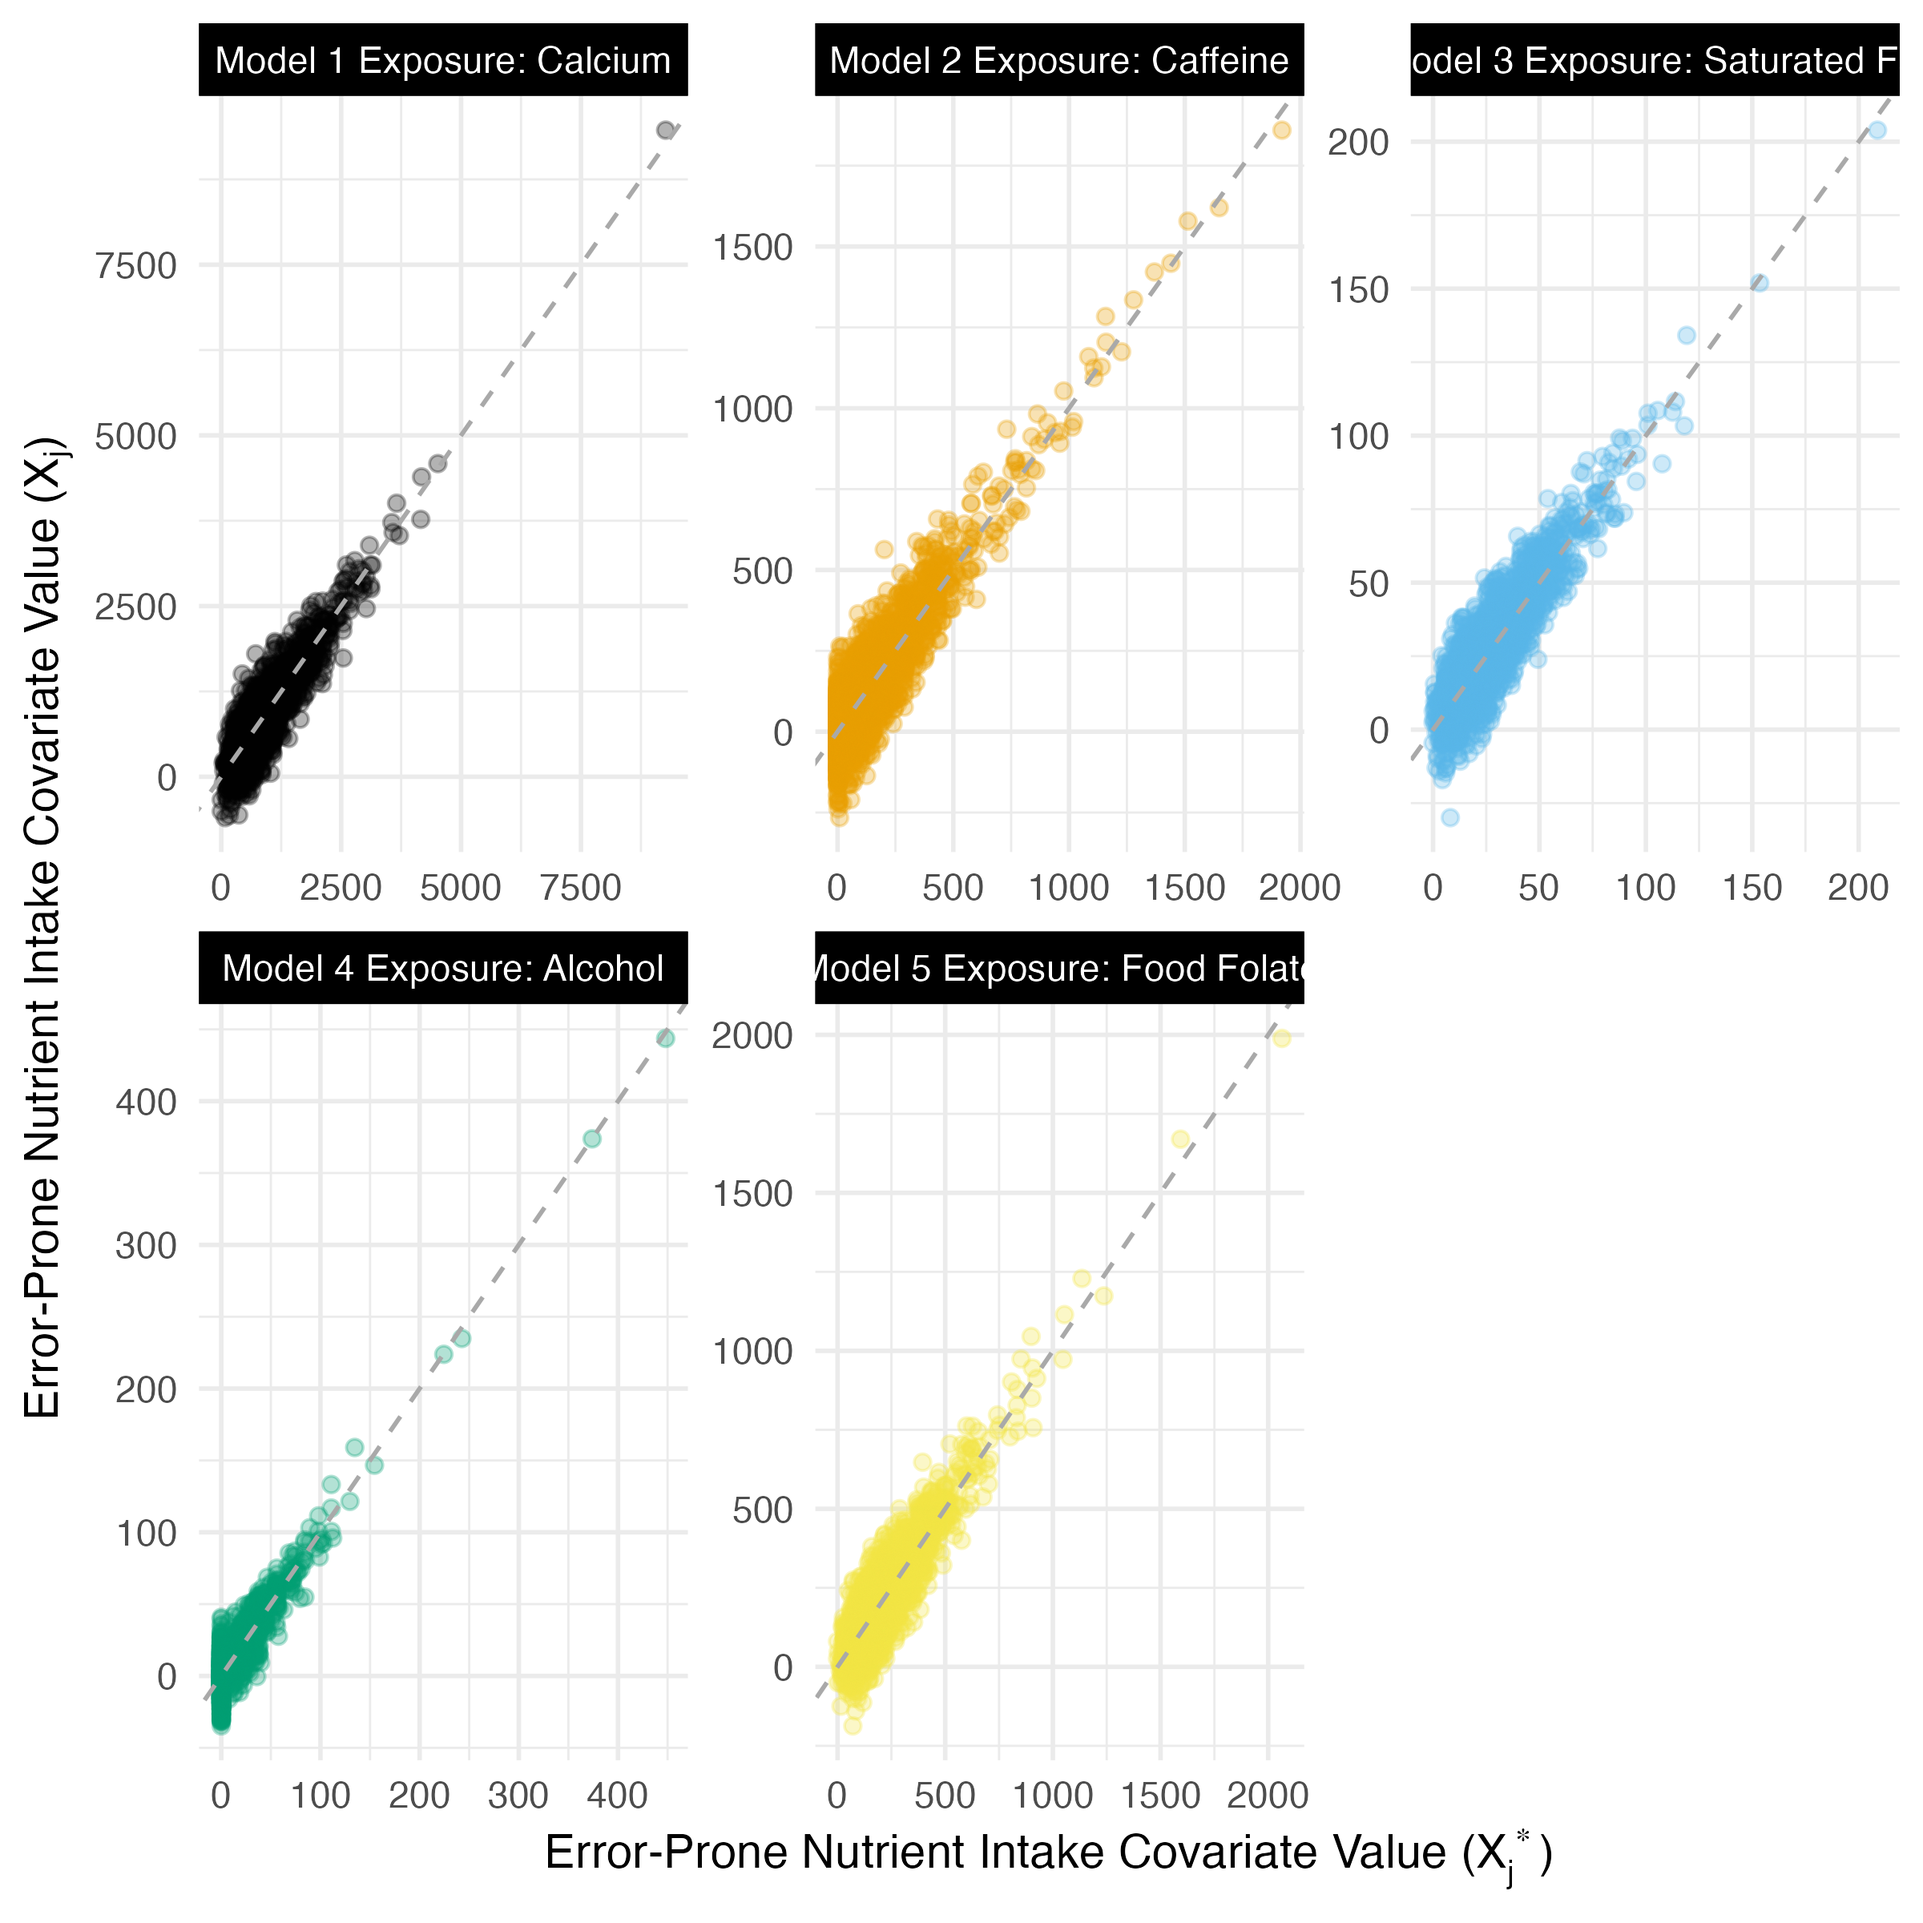
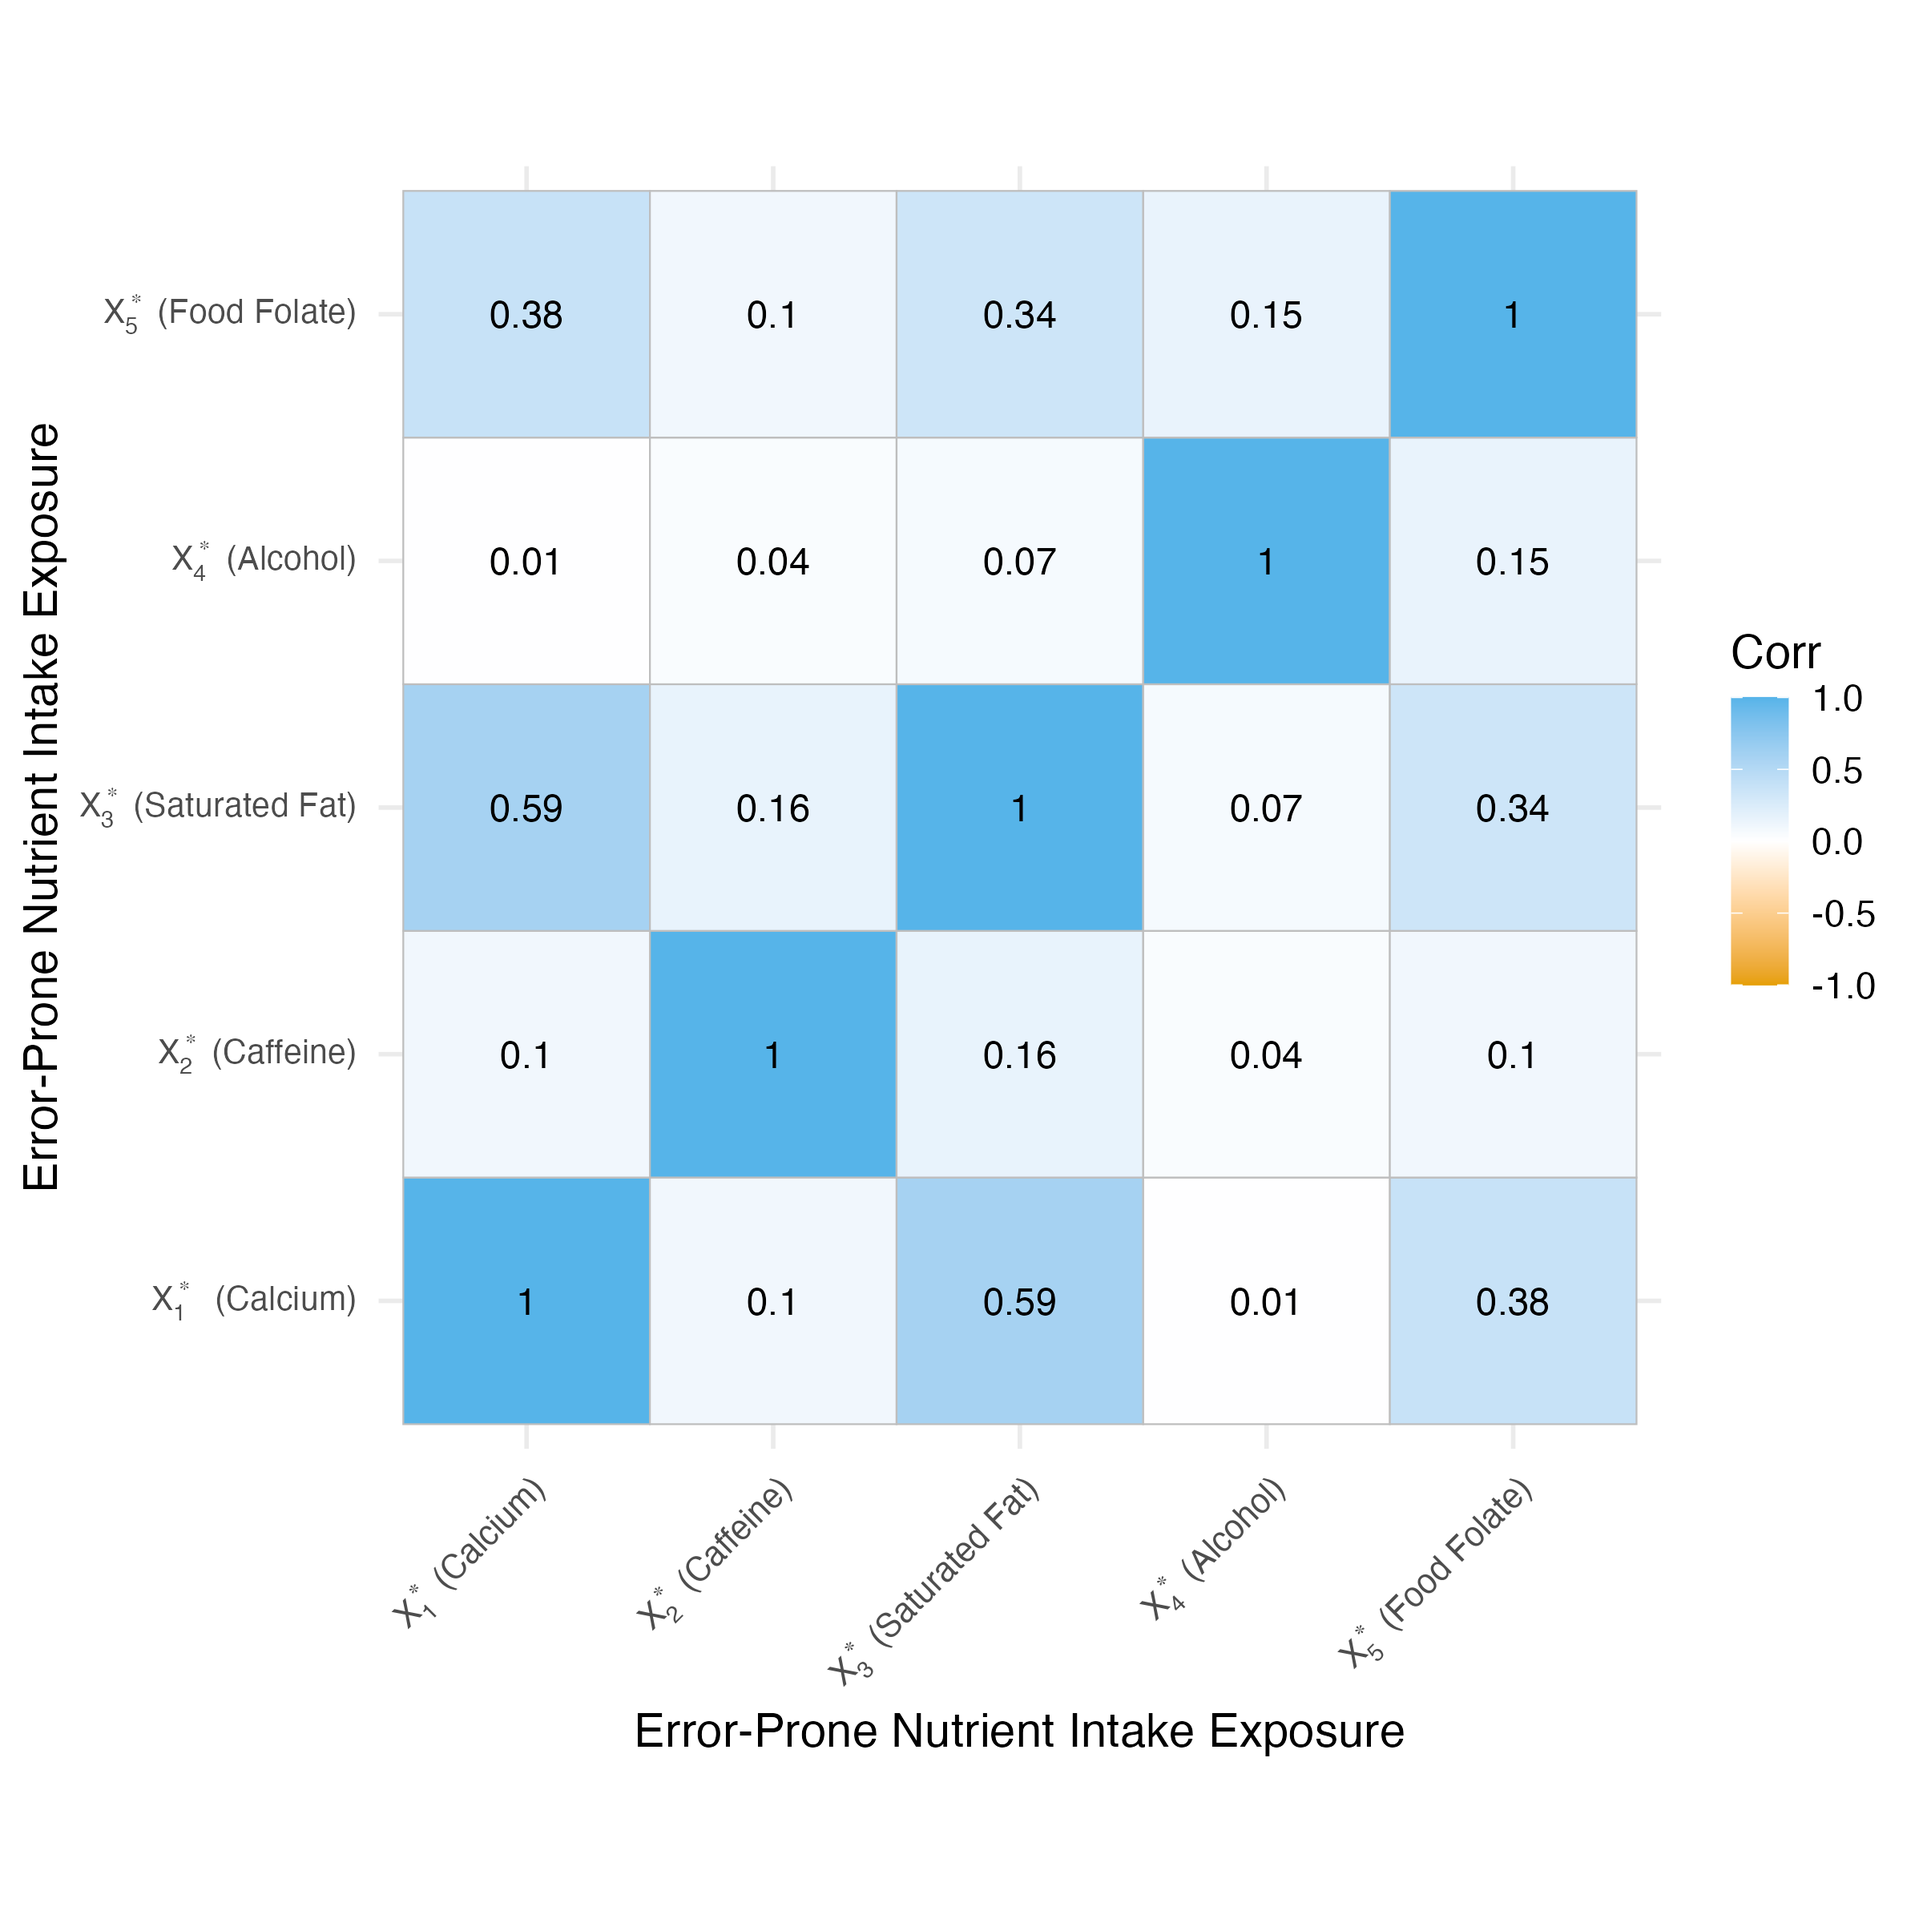
Rerun and remake figs in README

diff --git a/README.md b/README.md
@@ -49,8 +49,7 @@ nhanes_data = nhanes_data |>
                                       "< 9th Grade", 
                                       "9-11th Grade", 
                                       "High School Grad/GED or Equivalent",
-                                      "Some College or AA Degree")), 
-         RIDAGEYR = RIDAGEYR / 10) |> ## rescale age to 10-year increments
+                                      "Some College or AA Degree"))) |> 
   dplyr::select(SEQN, Y1:XSTAR5, RIAGENDR, RIDAGEYR, RIDRETH1, DMDEDUC2)  
 
 ## Define vector of additional (error-free) exposures
@@ -118,61 +117,35 @@ can be found in this repository as
 
 ## Descriptive Statistics
 
+### Error-Prone Versus Error-Free Exposures
+
 <img src="README_files/figure-gfm/unnamed-chunk-3-1.png" alt=""  />
 
-``` r
-## Estimate covariance of X* variables
-cov(nhanes_data[, paste0("XSTAR", 1:5)]) 
-```
+### Correlation Matrix Between Error-Prone Exposures
 
-    ##              XSTAR1     XSTAR2     XSTAR3    XSTAR4     XSTAR5
-    ## XSTAR1 311220.62986 10222.4015 5508.79197  86.62312 30146.7031
-    ## XSTAR2  10222.40152 30523.5473  479.53636 137.98007  2356.5188
-    ## XSTAR3   5508.79197   479.5364  281.98449  25.36496   805.3598
-    ## XSTAR4     86.62312   137.9801   25.36496 476.47932   451.9767
-    ## XSTAR5  30146.70310  2356.5188  805.35976 451.97665 19967.5159
+<img src="README_files/figure-gfm/corrplot X*-1.png" alt=""  />
+
+### Principal Components Analysis of Error-Prone Exposures
 
 ``` r
-cor_matrix = cor(nhanes_data[, paste0("XSTAR", 1:5)])
-
-library(ggcorrplot)
-plot_corr = ggcorrplot(cor_matrix,
-           lab = TRUE,          # adds correlation coefficients
-           colors = c("#E69F00", "white", "#56B4E9")) + # orange - white - blue
-  scale_x_discrete(labels = c(TeX("$X_1^*$ (Calcium)"),
-                              TeX("$X_2^*$ (Caffeine)"),
-                              TeX("$X_3^*$ (Saturated Fat)"),
-                              TeX("$X_4^*$ (Alcohol)"),
-                              TeX("$X_5^*$ (Food Folate)"))) +
-  scale_y_discrete(labels = c(TeX("$X_1^*$  (Calcium)"),
-                              TeX("$X_2^*$ (Caffeine)"),
-                              TeX("$X_3^*$ (Saturated Fat)"),
-                              TeX("$X_4^*$ (Alcohol)"),
-                              TeX("$X_5^*$ (Food Folate)"))) +
-  theme_minimal(base_size = 14) + 
-  xlab("Error-Prone Nutrient Intake Exposure Value") + 
-  ylab("Error-Prone Nutrient Intake Exposure Value") + 
-  theme(axis.text.x = element_text(angle = 45, hjust = 1, size = 10),
-      axis.text.y = element_text(size = 10))
+## Inspect numeric summaries X* variables (different scales/variability)
+summary(nhanes_data[, paste0("XSTAR", 1:5)]) 
 ```
 
-    ## Warning: `aes_string()` was deprecated in ggplot2 3.0.0.
-    ## ℹ Please use tidy evaluation idioms with `aes()`.
-    ## ℹ See also `vignette("ggplot2-in-packages")` for more information.
-    ## ℹ The deprecated feature was likely used in the ggcorrplot package.
-    ##   Please report the issue at <https://github.com/kassambara/ggcorrplot/issues>.
-    ## This warning is displayed once per session.
-    ## Call `lifecycle::last_lifecycle_warnings()` to see where this warning was
-    ## generated.
-
-``` r
-## Save 
-ggsave(filename = "~/Documents/ETS_PCA/NHANES-Analysis/Xstar-Correlation.png", 
-       plot = plot_corr, 
-       device = "png", 
-       width = 8, 
-       height = 8)
-```
+    ##      XSTAR1           XSTAR2           XSTAR3           XSTAR4       
+    ##  Min.   :   0.0   Min.   :   0.0   Min.   :  0.00   Min.   :  0.000  
+    ##  1st Qu.: 518.0   1st Qu.:  33.0   1st Qu.: 15.48   1st Qu.:  0.000  
+    ##  Median : 769.0   Median : 120.0   Median : 23.58   Median :  0.000  
+    ##  Mean   : 885.7   Mean   : 156.2   Mean   : 26.62   Mean   :  7.717  
+    ##  3rd Qu.:1128.0   3rd Qu.: 210.0   3rd Qu.: 33.93   3rd Qu.:  0.000  
+    ##  Max.   :9266.0   Max.   :1920.0   Max.   :208.84   Max.   :448.100  
+    ##      XSTAR5      
+    ##  Min.   :   0.0  
+    ##  1st Qu.: 124.0  
+    ##  Median : 184.0  
+    ##  Mean   : 213.9  
+    ##  3rd Qu.: 267.0  
+    ##  Max.   :2064.0
 
 ``` r
 ## Fit PCA on X* variables (using correlation matrix)
@@ -188,76 +161,24 @@ summary(pc)
     ## Cumulative Proportion  0.389586 0.5931921 0.7842762 0.9197112 1.00000000
 
 ``` r
-### Print PCA loadings 
-pc$loadings
-```
-
-    ## 
-    ## Loadings:
-    ##        Comp.1 Comp.2 Comp.3 Comp.4 Comp.5
-    ## XSTAR1  0.589  0.240  0.148  0.234  0.721
-    ## XSTAR2  0.221        -0.966              
-    ## XSTAR3  0.589  0.149         0.418 -0.674
-    ## XSTAR4  0.132 -0.939         0.288       
-    ## XSTAR5  0.491 -0.177  0.184 -0.825 -0.112
-    ## 
-    ##                Comp.1 Comp.2 Comp.3 Comp.4 Comp.5
-    ## SS loadings       1.0    1.0    1.0    1.0    1.0
-    ## Proportion Var    0.2    0.2    0.2    0.2    0.2
-    ## Cumulative Var    0.2    0.4    0.6    0.8    1.0
-
-``` r
 ### Extract the first principal component
 nhanes_data$pc1 = pc$scores[, 1] 
-### Plot score vs. X* and Y
-plot_loadings = nhanes_data |> 
-  dplyr::select(pc1, Y1:Y5, XSTAR1:XSTAR5) |> 
-  pivot_longer(cols = Y1:XSTAR5, names_to = "Variable", values_to = "Value") |>
-  mutate(Model = sub("Y|XSTAR", "", Variable), 
-         Variable = paste0(sub(pattern = "XSTAR", 
-                               replacement = "$X^*_", 
-                               x = sub(pattern = "Y", 
-                                       replacement = "$Y_", 
-                                       x = "XSTAR1")), "$"), 
-         Variable = factor(x = Variable, 
-                           levels = c(paste0("$Y_", 1:5, "$"), 
-                                      paste0("$X^*_", 1:5, "$")), 
-                           labels = TeX(c(paste0("$Y_", 1:5, "$"), 
-                                      paste0("$X^*_", 1:5, "$")))), 
-         ) |> 
-  ggplot(aes(x = pc1, y = Value, color = Model)) + 
-  geom_point() + 
-  ggthemes::scale_color_colorblind(guide = "none") + 
-  facet_wrap(~Variable, 
-             ncol = 5, 
-             labeller = label_parsed) + 
-  theme_minimal(base_size = 14) + 
-  theme(strip.background = element_rect(fill = "black"), 
-        strip.text = element_text(color = "white"), 
-        legend.title = element_text(face = "bold"), 
-        legend.position = "top", 
-        axis.text.x = element_blank(), 
-        axis.title.x = element_blank())
-# Save it 
-plot_loadings
 ```
 
-<img src="README_files/figure-gfm/PCA-1.png" alt=""  />
+### Scree Plot
 
-``` r
-ggsave(filename = "~/Documents/ETS_PCA/NHANES-Analysis/PCA-Loadings.png", 
-       plot = plot_covar, 
-       device = "png", 
-       width = 10, 
-       height = 6)
-```
+<img src="README_files/figure-gfm/unnamed-chunk-5-1.png" alt=""  />
+
+### Loadings Plot
+
+<img src="README_files/figure-gfm/unnamed-chunk-6-1.png" alt=""  />
 
 ## Fitting the Models Under Different Partial Validation Designs
 
 For the data application in the manuscript, we fit each of the five
 models of interest assuming that only $n = 250$ of the $N =$ 2388
 individuals had validated exposure information $X_1, \dots, X_5$
-measured. For the other \$N - n = \$ 2138 individuals, $X_1, \dots, X_5$
+measured. For the other $N - n =$ 2138 individuals, $X_1, \dots, X_5$
 are missing and must be multiply imputed to fit the models.
 
 ``` r
@@ -416,20 +337,6 @@ for (j in 1:5) {
 
 ## Results
 
-<img src="README_files/figure-gfm/unnamed-chunk-6-1.png" alt=""  />
+<img src="README_files/figure-gfm/unnamed-chunk-10-1.png" alt=""  />
 
-<img src="README_files/figure-gfm/unnamed-chunk-7-1.png" alt=""  />
-
-<img src="README_files/figure-gfm/unnamed-chunk-8-1.png" alt=""  />
-
-``` r
-library(patchwork)
-both = (plot_coeff / plot_ciwidth) + 
-  plot_annotation(tag_levels = 'A')
-## Save it 
-ggsave(plot = both, 
-       filename = "~/Documents/ETS_PCA/NHANES-Analysis/nhanes_forest_bar.pdf", 
-       device = "pdf", 
-       width = 12, 
-       height = 10)
-```
+<img src="README_files/figure-gfm/unnamed-chunk-12-1.png" alt=""  />
